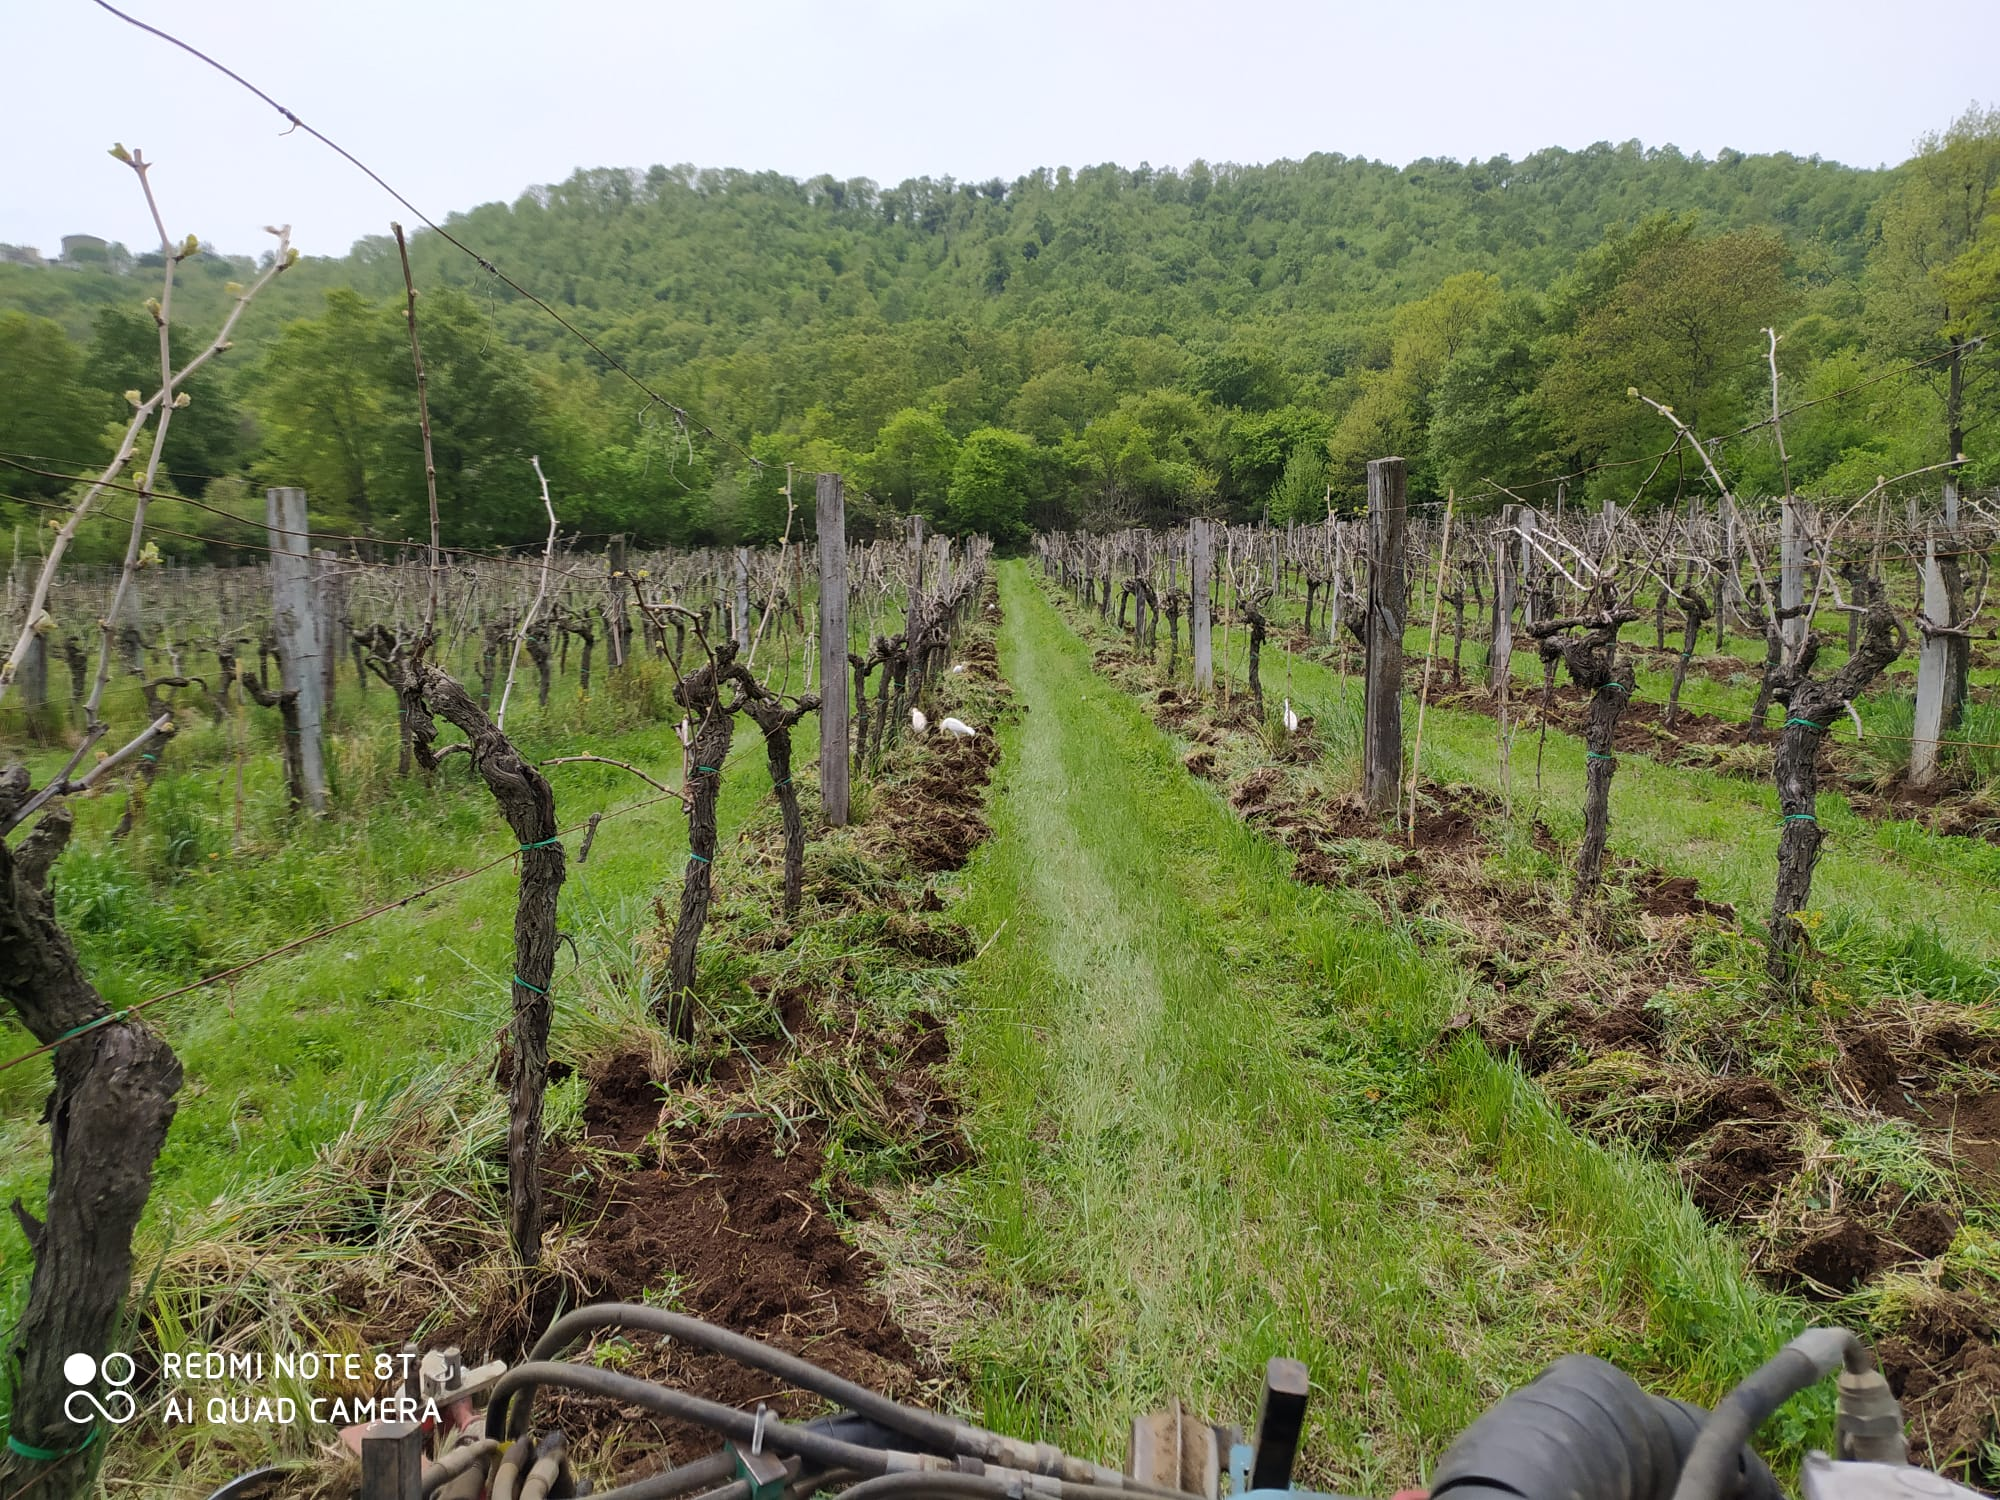
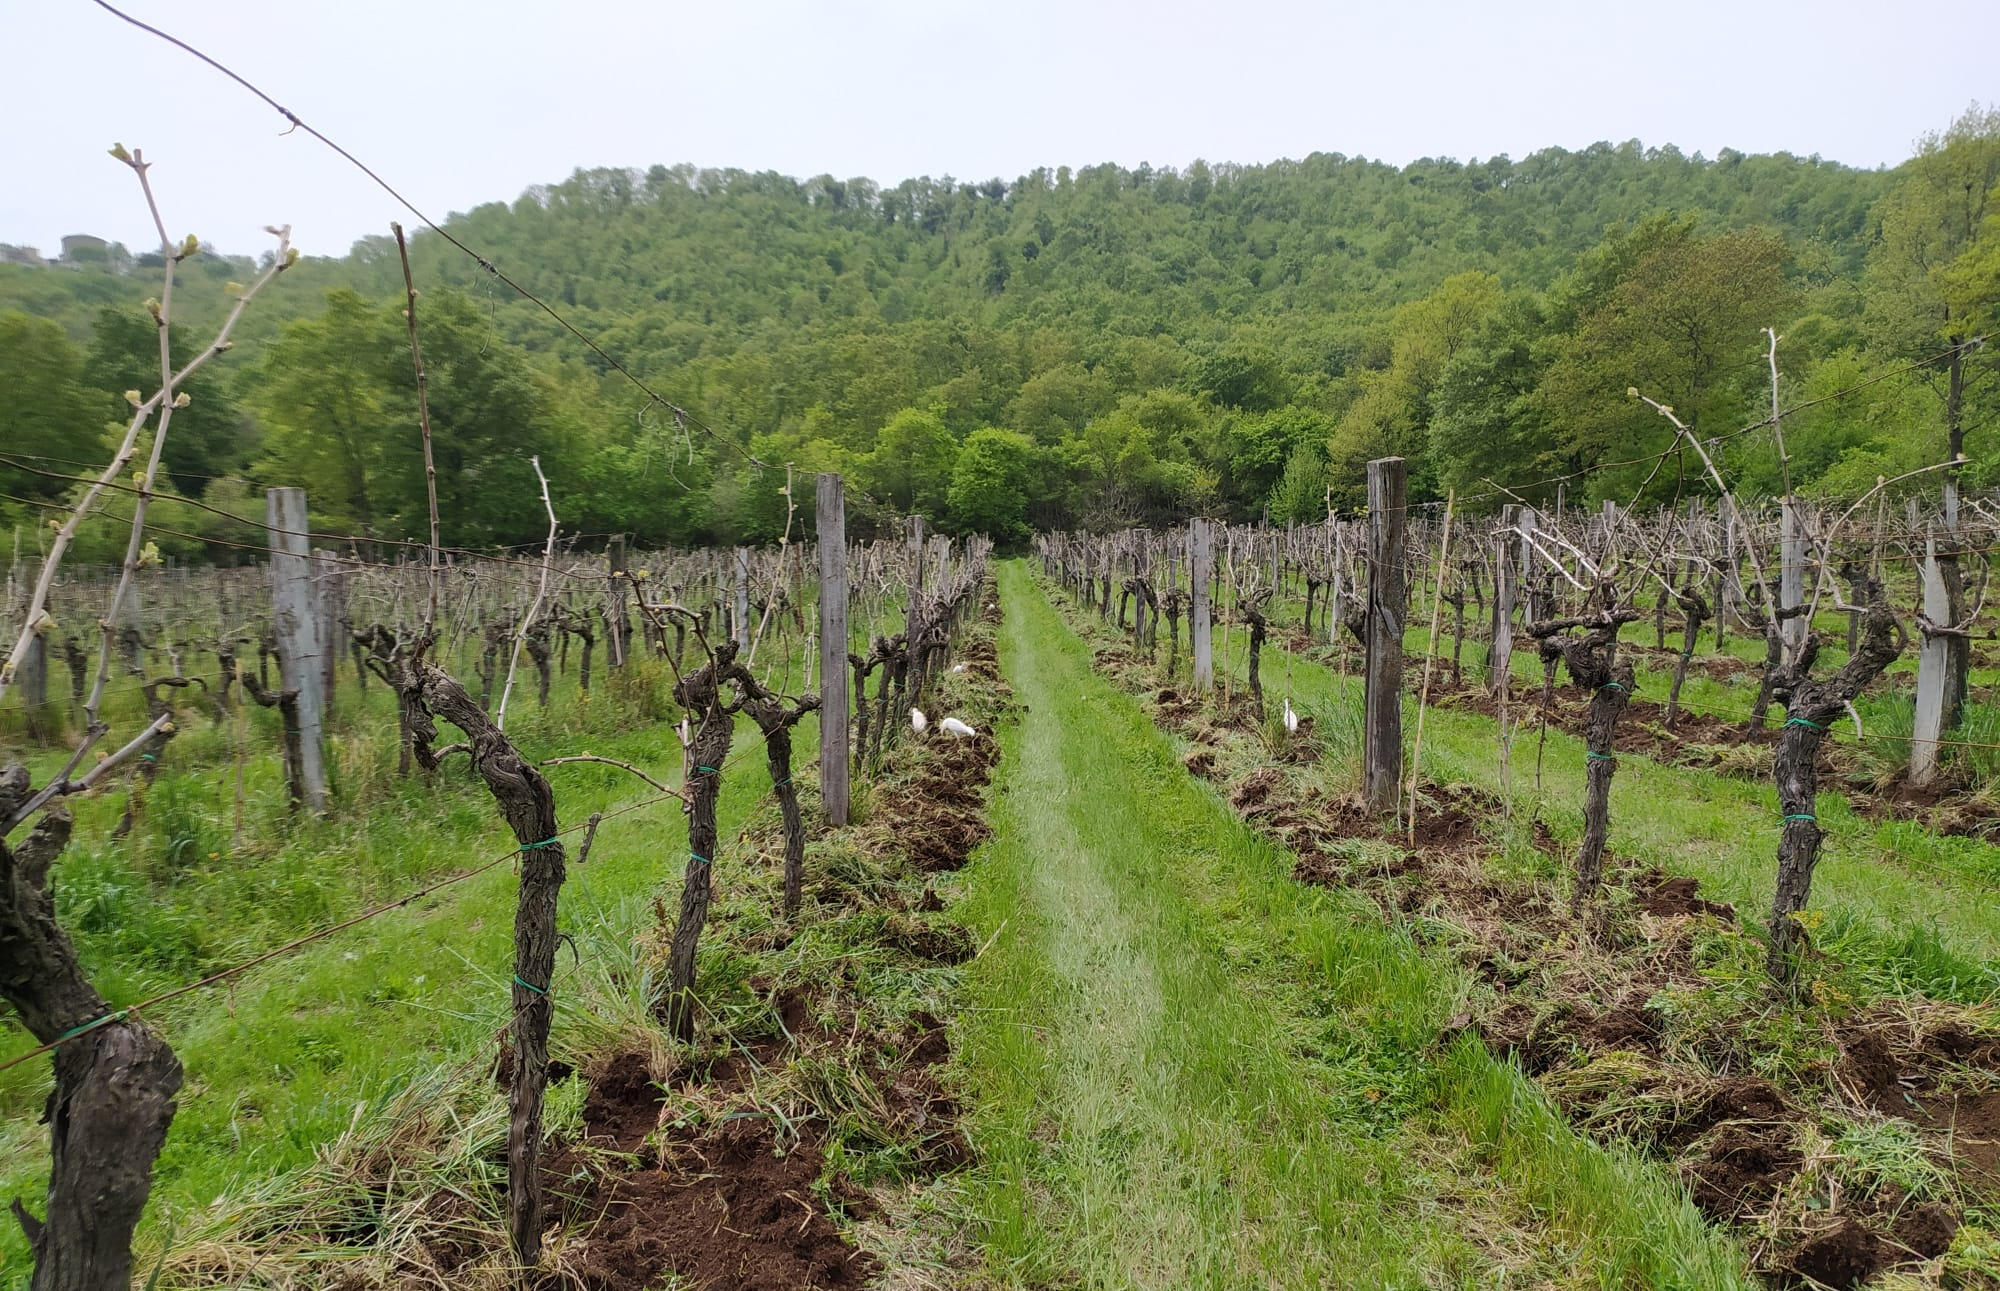
feat: update Experiences sections and add product images to shop

diff --git a/src/app/experiences/page.tsx b/src/app/experiences/page.tsx
@@ -1,15 +1,27 @@
 import Image from "next/image";
+import Link from "next/link";
 import { getTranslations } from "next-intl/server";
 import golfHero from "../../../public/assets/golf1.jpeg";
+import legna from "../../../public/assets/farm/legna.jpeg";
+import boat from "../../../public/assets/who_we_are/boat.png";
 
 export default async function ExperiencesPage() {
     const t = await getTranslations("experiences_page");
 
     const sections = [
-        { title: t("farm_tours_title"), text: t("farm_tours_text") },
-        { title: t("pilgrim_title"), text: t("pilgrim_text") },
-        { title: t("tasting_title"), text: t("tasting_text") },
-        { title: t("tourism_title"), text: t("tourism_text") },
+        {
+            title: t("farm_tours_title"),
+            text: t("farm_tours_text"),
+            image: legna,
+            imageAlt: t("farm_tours_image_alt"),
+        },
+        {
+            title: t("boat_trips_title"),
+            text: t("boat_trips_text"),
+            image: boat,
+            imageAlt: t("boat_trips_image_alt"),
+        },
+        { title: t("tourism_title"), text: t("tourism_text"), ctaHref: "/tuscia", ctaLabel: t("tourism_cta") },
     ];
 
     return (
@@ -39,10 +51,30 @@ export default async function ExperiencesPage() {
                             key={section.title}
                             className="border border-brand-sand p-8 bg-brand-stone shadow-soft"
                         >
+                            {"image" in section && section.image ? (
+                                <div className="relative mb-6 aspect-[16/9] overflow-hidden rounded-md">
+                                    <Image
+                                        src={section.image}
+                                        alt={section.imageAlt ?? ""}
+                                        fill
+                                        sizes="(max-width: 768px) 100vw, 896px"
+                                        className="object-cover"
+                                    />
+                                </div>
+                            ) : null}
                             <h2 className="text-2xl font-semibold text-brand-terracotta mb-4">
                                 {section.title}
                             </h2>
                             <p className="text-brand-muted leading-relaxed">{section.text}</p>
+                            {"ctaHref" in section && section.ctaHref ? (
+                                <Link
+                                    href={section.ctaHref}
+                                    prefetch={false}
+                                    className="mt-6 inline-flex px-6 py-3 bg-brand-terracotta text-brand-linen hover:bg-brand-terracotta-dark transition-colors font-medium"
+                                >
+                                    {section.ctaLabel}
+                                </Link>
+                            ) : null}
                         </section>
                     ))}
                 </div>

diff --git a/src/app/shop/page.tsx b/src/app/shop/page.tsx
@@ -7,6 +7,7 @@ import { Elements, PaymentElement, useStripe, useElements } from "@stripe/react-
 import { useTranslations, useLocale } from "next-intl";
 import { ProductType, CartItem } from "@/types";
 import { Button } from "@/components/ui/button";
+import { PRODUCT_IMAGES } from "@/constants/product_images";
 import shopHero from "../../../public/assets/barbecue.jpg";
 
 let stripePromise: ReturnType<typeof loadStripe> | null = null;
@@ -117,6 +118,29 @@ function ShopCheckoutWrapper({
     );
 }
 
+function ProductCardImage({
+    productId,
+    alt,
+}: {
+    productId: string;
+    alt: string;
+}) {
+    const image = PRODUCT_IMAGES[productId];
+    if (!image) return null;
+
+    return (
+        <div className="relative mb-4 aspect-[4/3] overflow-hidden rounded-md">
+            <Image
+                src={image}
+                alt={alt}
+                fill
+                sizes="(max-width: 768px) 100vw, 33vw"
+                className="object-cover"
+            />
+        </div>
+    );
+}
+
 export default function ShopPage() {
     const t = useTranslations("shop_page");
     const locale = useLocale();
@@ -190,6 +214,10 @@ export default function ShopPage() {
                             key={product.productId}
                             className="border border-brand-sand p-6 bg-brand-stone shadow-soft"
                         >
+                            <ProductCardImage
+                                productId={product.productId}
+                                alt={getProductName(product)}
+                            />
                             <h3 className="text-xl font-semibold text-brand-ink mb-2">
                                 {getProductName(product)}
                             </h3>

diff --git a/src/constants/product_images.ts b/src/constants/product_images.ts
@@ -1,0 +1,10 @@
+import { StaticImageData } from "next/image";
+import olive2 from "../../public/assets/farm/olive2.jpeg";
+import orto2 from "../../public/assets/farm/orto2.jpeg";
+import vigna1 from "../../public/assets/farm/vigna1.jpeg";
+
+export const PRODUCT_IMAGES: Record<string, StaticImageData> = {
+    "extra-virgin-olive-oil": olive2,
+    "homemade-wine": vigna1,
+    "seasonal-jam": orto2,
+};